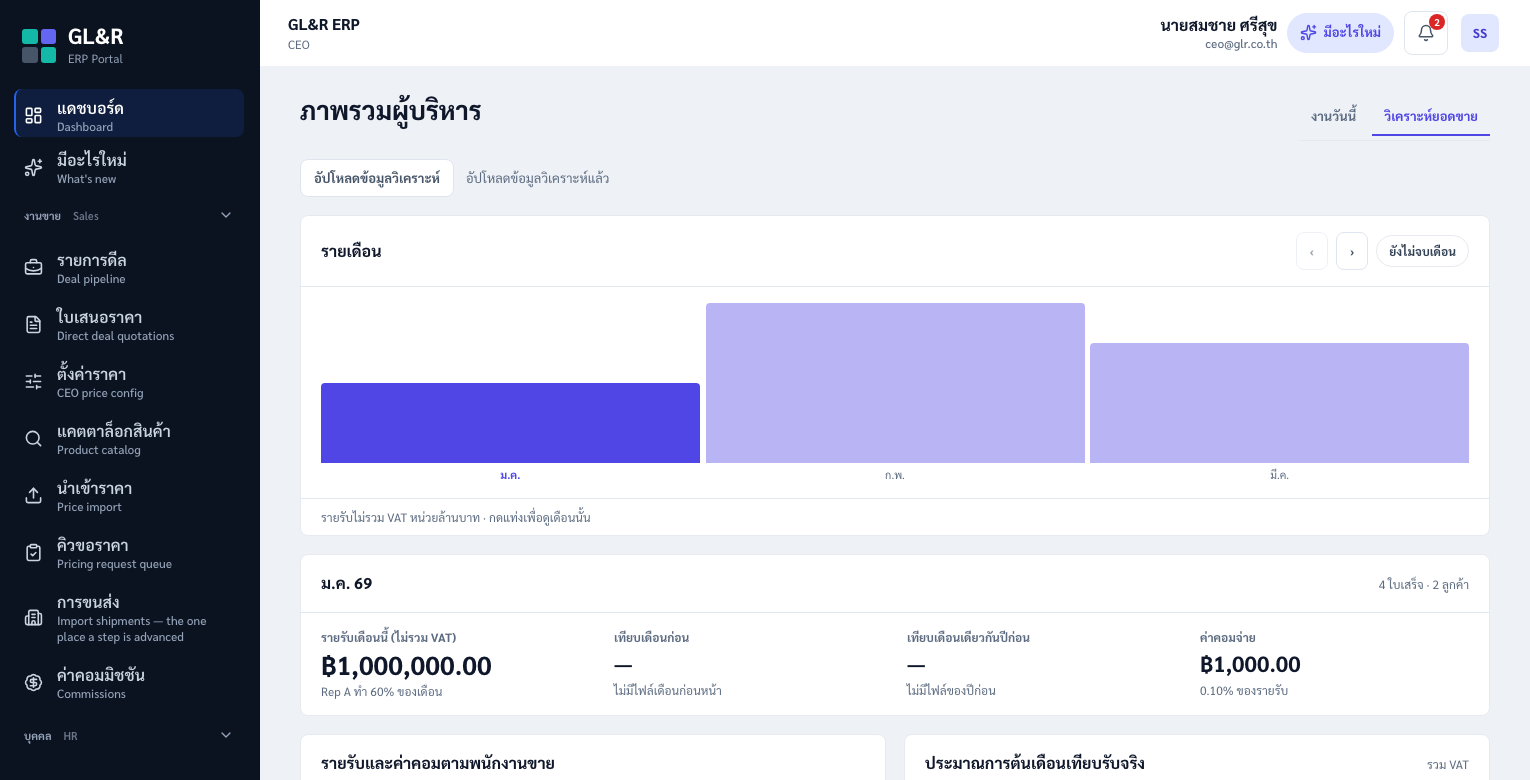
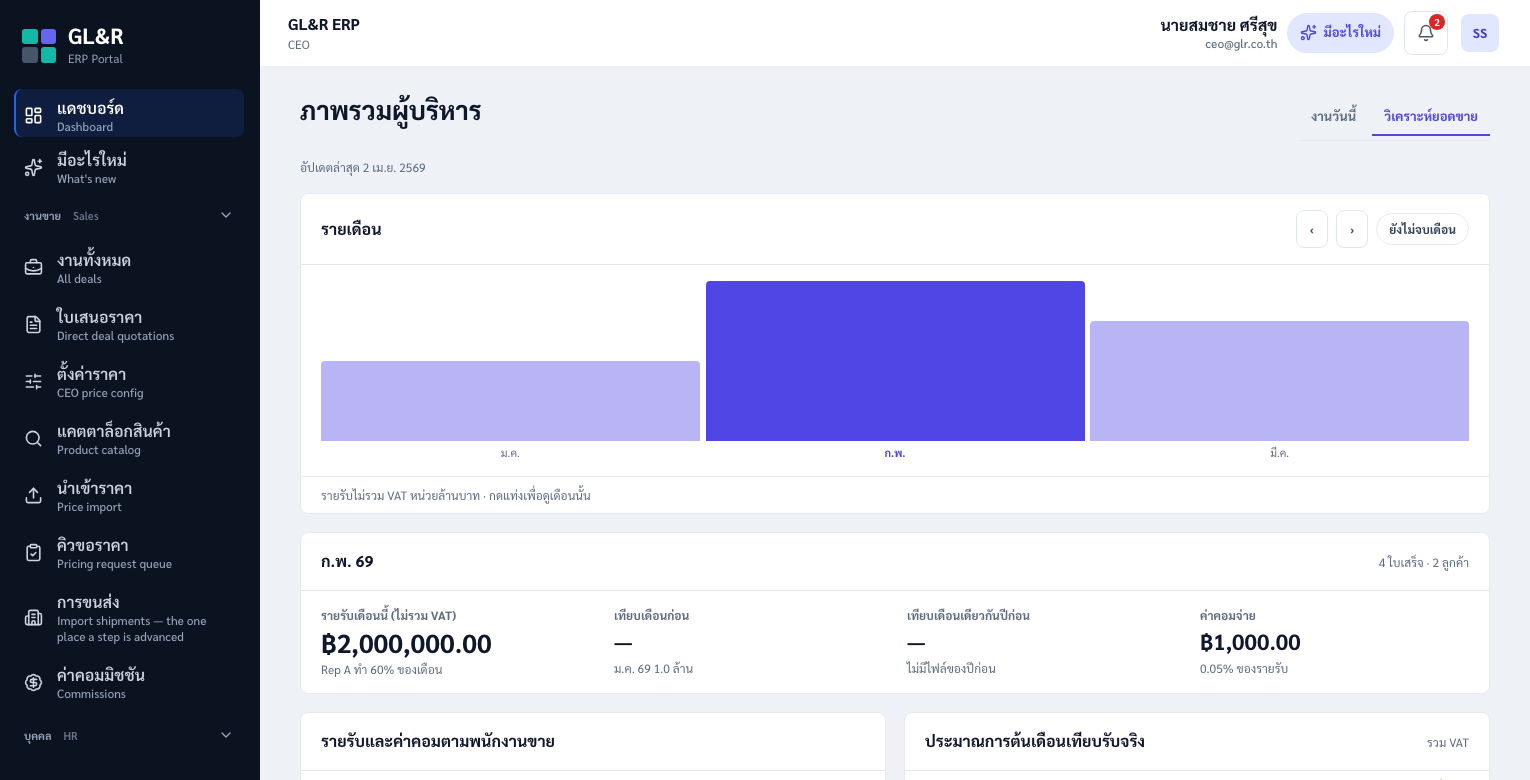
fix(dashboard): address review findings on the sales insights upload removal
- drop the dead upload client and mock writer; list PUT snapshot as server-only
- seed the mock with a synthetic snapshot so mock mode can show the view
- show the load error instead of a blank panel when a refetch fails
- refetch the snapshot on window focus once it is 10 minutes old
- always show the last-updated date; month fallback copy follows the data
- retake the release-notice screenshot without the upload button

diff --git a/frontend/src/features/dashboard/SalesInsights.test.jsx b/frontend/src/features/dashboard/SalesInsights.test.jsx
@@ -1,11 +1,13 @@
 import React from 'react';
-import { QueryClient, QueryClientProvider } from '@tanstack/react-query';
+import { QueryClient, QueryClientProvider, focusManager } from '@tanstack/react-query';
 import { MemoryRouter } from 'react-router-dom';
 import { cleanup, fireEvent, render, screen, waitFor, within } from '@testing-library/react';
-import { beforeEach, describe, expect, it, vi } from 'vitest';
+import { act } from 'react';
+import { afterEach, beforeEach, describe, expect, it, vi } from 'vitest';
 import { SalesInsights } from './SalesInsights.jsx';
 import { api } from '../../api/index.js';
 import { ml, pct } from './insight/insightFormat.js';
+import { formatThaiDate } from '../../utils/format.js';
 import { SNAPSHOT, SNAPSHOT_MINIMAL, SNAPSHOT_SPARSE, SNAPSHOT_WITH_NOW } from '../../test/fixtures/salesAnalyticsSnapshot.js';
 
 globalThis.React = React;
@@ -18,8 +20,9 @@ vi.mock('../../api/index.js', () => ({
 const CEO_ORDER = ['sales', 'comm', 'cust', 'pipe', 'des'];
 const MANAGER_ORDER = ['pipe', 'des', 'sales', 'cust', 'comm'];
 
-function renderInsights(role) {
-  const queryClient = new QueryClient({ defaultOptions: { queries: { retry: false }, mutations: { retry: false } } });
+// `queries` overrides the test client's defaults (the app's own defaults are no focus refetch and a 30 s staleTime).
+function renderInsights(role, queries = {}) {
+  const queryClient = new QueryClient({ defaultOptions: { queries: { retry: false, ...queries }, mutations: { retry: false } } });
   return {
     queryClient,
     ...render(
@@ -35,6 +38,11 @@ function renderInsights(role) {
 const withSnapshot = (payload = SNAPSHOT) => api.salesAnalytics.snapshot.mockResolvedValue({
   snapshot: { payload, asOf: '2026-03-31', uploadedAt: '2026-04-02T03:00:00Z' },
 });
+const expectNoUploadControl = () => {
+  const root = screen.getByTestId('sales-insights');
+  expect(root.querySelector('input[type="file"]')).toBeNull();
+  expect(within(root).queryByRole('button', { name: /อัปโหลด|upload/i })).toBeNull();
+};
 const detail = () => screen.getByTestId('insight-month-detail');
 const sectionOrder = () => [...document.querySelectorAll('[data-testid^="insight-section-"]')]
   .map((el) => el.getAttribute('data-testid').replace('insight-section-', ''));
@@ -133,14 +141,20 @@ describe('SalesInsights', () => {
     it('offers no upload control to anyone, the CEO included: the data arrives through the weekly update', async () => {
       const { unmount } = renderInsights('ceo');
       const ceoEmpty = await screen.findByTestId('insight-empty');
-      expect(document.querySelector('input[type="file"]')).toBeNull();
-      expect(screen.queryByText(/อัปโหลด/)).toBeNull();
       expect(ceoEmpty.textContent).toBe('ยังไม่มีข้อมูลวิเคราะห์ — ข้อมูลอัปเดตทุกสัปดาห์');
+      expectNoUploadControl();
       unmount();
 
       renderInsights('sales_manager');
       expect((await screen.findByTestId('insight-empty')).textContent).toBe(ceoEmpty.textContent);
-      expect(document.querySelector('input[type="file"]')).toBeNull();
+      expectNoUploadControl();
+    });
+
+    it('offers the CEO no upload control next to a usable snapshot either', async () => {
+      withSnapshot();
+      renderInsights('ceo');
+      await screen.findByTestId('insight-month-detail');
+      expectNoUploadControl();
     });
   });
 
@@ -302,7 +316,7 @@ describe('SalesInsights', () => {
       expect((await screen.findByRole('alert')).textContent).toContain('แสดงหัวข้อนี้ไม่ได้');
 
       api.salesAnalytics.snapshot.mockResolvedValue({ snapshot: { payload: SNAPSHOT, asOf: null, uploadedAt: '2026-04-03T03:00:00Z' } });
-      await queryClient.invalidateQueries();
+      await act(async () => { await queryClient.invalidateQueries(); });
       await waitFor(() => expect(screen.queryByRole('alert')).toBeNull());
       expect(screen.getByTestId('insight-month-detail')).toBeTruthy();
       spy.mockRestore();
@@ -395,7 +409,7 @@ describe('SalesInsights', () => {
 
       fireEvent.click(screen.getByTestId('insight-month-0'));
       expect(within(detail()).getByText('ลูกค้า ก')).toBeTruthy();
-      expect(screen.queryByText('แสดงเดือนนี้ไม่ได้ กรุณาอัปโหลดไฟล์ใหม่หรือแจ้งผู้ดูแลระบบ')).toBeNull();
+      expect(screen.queryByRole('alert')).toBeNull();
       spy.mockRestore();
     });
 
@@ -412,7 +426,7 @@ describe('SalesInsights', () => {
     it('shows the ข้อมูล ณ date to the sales manager too, like the CEO, with no upload control', async () => {
       renderInsights('sales_manager');
       await screen.findByTestId('insight-month-detail');
-      expect(screen.getByText('ข้อมูล ณ 2026-03-31')).toBeTruthy();
+      expect(screen.getByTestId('insight-updated').textContent).toContain('ข้อมูล ณ 2026-03-31');
       expect(document.querySelector('input[type="file"]')).toBeNull();
     });
 
@@ -509,6 +523,73 @@ describe('SalesInsights', () => {
       const cell = (row) => row.querySelectorAll('td')[4].textContent;
       expect(cell(rows[1])).toBe('0%');
       expect(cell(rows[2])).toBe('—');
+    });
+  });
+  describe('review round 4', () => {
+    afterEach(() => { vi.useRealTimers(); focusManager.setFocused(undefined); });
+
+    it('shows the load-error alert when a refetch fails over a stored snapshot the page cannot draw', async () => {
+      withSnapshot({ ...SNAPSHOT_MINIMAL, months: [], monthly_total: [], monthly: [] });
+      const { queryClient } = renderInsights('ceo');
+      await screen.findByTestId('insight-empty');
+
+      api.salesAnalytics.snapshot.mockRejectedValue(new Error('down'));
+      await act(async () => { await queryClient.invalidateQueries(); });
+
+      expect((await screen.findByRole('alert')).textContent).toBe('โหลดข้อมูลวิเคราะห์ไม่สำเร็จ');
+    });
+
+    it('an open tab picks up a newer snapshot when the window regains focus after 10 minutes, and not before', async () => {
+      vi.useFakeTimers({ toFake: ['Date'] });
+      renderInsights('ceo', { refetchOnWindowFocus: false, staleTime: 30_000 });
+      await screen.findByTestId('insight-month-detail');
+      expect(api.salesAnalytics.snapshot).toHaveBeenCalledTimes(1);
+
+      await act(async () => { focusManager.setFocused(false); focusManager.setFocused(true); });
+      expect(api.salesAnalytics.snapshot).toHaveBeenCalledTimes(1);
+
+      vi.setSystemTime(Date.now() + 11 * 60_000);
+      await act(async () => { focusManager.setFocused(false); focusManager.setFocused(true); });
+      await waitFor(() => expect(api.salesAnalytics.snapshot).toHaveBeenCalledTimes(2));
+    });
+
+    it('the month fallback only says to pick another month when another choice exists', async () => {
+      const spy = vi.spyOn(console, 'error').mockImplementation(() => {});
+      const bad = { ...SNAPSHOT.monthly[2], fc: [null] };
+      const single = { ...SNAPSHOT, months: ['มี.ค. 69'], monthly_total: [1500000], monthly: [bad] };
+      withSnapshot(single);
+      const { unmount } = renderInsights('ceo');
+      expect((await screen.findByRole('alert')).textContent).toBe('แสดงเดือนนี้ไม่ได้');
+      unmount();
+
+      withSnapshot({ ...single, now: SNAPSHOT_WITH_NOW.now });
+      renderInsights('ceo');
+      expect((await screen.findByRole('alert')).textContent).toBe('แสดงเดือนนี้ไม่ได้ เลือกเดือนอื่น');
+      spy.mockRestore();
+    });
+
+    describe('the "when was this loaded" line', () => {
+      const line = () => screen.getByTestId('insight-updated').textContent;
+      const updated = `อัปเดตล่าสุด ${formatThaiDate('2026-04-02T03:00:00Z')}`;
+
+      it('shows the as-of date and the update date together', async () => {
+        renderInsights('ceo');
+        await screen.findByTestId('insight-month-detail');
+        expect(line()).toBe(`ข้อมูล ณ 2026-03-31 · ${updated}`);
+      });
+
+      it('still shows the update date when the snapshot has no as-of date, and nothing when it has neither', async () => {
+        api.salesAnalytics.snapshot.mockResolvedValue({ snapshot: { payload: SNAPSHOT, asOf: null, uploadedAt: '2026-04-02T03:00:00Z' } });
+        const { unmount } = renderInsights('ceo');
+        await screen.findByTestId('insight-month-detail');
+        expect(line()).toBe(updated);
+        unmount();
+
+        api.salesAnalytics.snapshot.mockResolvedValue({ snapshot: { payload: SNAPSHOT, asOf: null, uploadedAt: null } });
+        renderInsights('ceo');
+        await screen.findByTestId('insight-month-detail');
+        expect(screen.queryByTestId('insight-updated')).toBeNull();
+      });
     });
   });
 });

diff --git a/frontend/src/features/dashboard/SalesInsights.jsx b/frontend/src/features/dashboard/SalesInsights.jsx
@@ -4,13 +4,18 @@ import { api } from '../../api/index.js';
 import { queryKeys } from '../../api/queryKeys.js';
 import { ErrorBoundary } from '../../components/common/ErrorBoundary.jsx';
 import { Skeleton } from '../../components/common/Skeleton.jsx';
+import { formatThaiDate } from '../../utils/format.js';
 import { MonthDetail, MonthPicker, NowDetail } from './insight/insightMonth.jsx';
 import { isUsable } from './insight/insightFormat.js';
 import { YearPart } from './insight/insightYear.jsx';
 
 /** The "วิเคราะห์ยอดขาย" view of the CEO / sales-manager landing page: a stored analytics snapshot. */
 export function SalesInsights({ user }) {
-  const query = useQuery({ queryKey: queryKeys.salesAnalyticsSnapshot(), queryFn: () => api.salesAnalytics.snapshot() });
+  const query = useQuery({ queryKey: queryKeys.salesAnalyticsSnapshot(), queryFn: () => api.salesAnalytics.snapshot(),
+    // An open tab should pick up the weekly refresh: the app default is no focus refetch.
+    refetchOnWindowFocus: true,
+    staleTime: 10 * 60_000,
+  });
   const stored = query.data?.snapshot?.payload ?? null;
   const asOf = query.data?.snapshot?.asOf;
   const uploadedAt = query.data?.snapshot?.uploadedAt;
@@ -24,9 +29,13 @@ export function SalesInsights({ user }) {
 
   return (
     <div className="grid gap-[18px]" data-testid="sales-insights">
-      {asOf ? <small className="text-xs text-text-muted">ข้อมูล ณ {asOf}</small> : null}
+      {asOf || uploadedAt ? (
+        <small className="text-xs text-text-muted" data-testid="insight-updated">
+          {[asOf ? `ข้อมูล ณ ${asOf}` : null, uploadedAt ? `อัปเดตล่าสุด ${formatThaiDate(uploadedAt)}` : null].filter(Boolean).join(' · ')}
+        </small>
+      ) : null}
       {query.isLoading ? <Skeleton height={160} /> : null}
-      {query.isError && !query.data ? <p role="alert" className="m-0 text-sm text-danger">โหลดข้อมูลวิเคราะห์ไม่สำเร็จ</p> : null}
+      {query.isError && !K ? <p role="alert" className="m-0 text-sm text-danger">โหลดข้อมูลวิเคราะห์ไม่สำเร็จ</p> : null}
       {!query.isLoading && !query.isError && !K ? (
         <section data-testid="insight-empty" className="rounded-md border border-border bg-surface p-5 text-sm text-text-muted">
           {stored ? 'ข้อมูลวิเคราะห์ที่มีอยู่อ่านไม่ได้' : 'ยังไม่มีข้อมูลวิเคราะห์'} — ข้อมูลอัปเดตทุกสัปดาห์
@@ -37,7 +46,7 @@ export function SalesInsights({ user }) {
         <Fragment key={uploadedAt}>
           <MonthPicker K={K} sel={sel} onSelect={setPicked} />
           {/* Keyed on the selection too: picking another month remounts the detail, so a malformed month can be left. */}
-          <ErrorBoundary key={sel} fallback={() => <p role="alert" className="m-0 text-sm text-danger">แสดงเดือนนี้ไม่ได้ เลือกเดือนอื่น</p>}>
+          <ErrorBoundary key={sel} fallback={() => <p role="alert" className="m-0 text-sm text-danger">แสดงเดือนนี้ไม่ได้{K.months.length > 1 || K.now ? ' เลือกเดือนอื่น' : ''}</p>}>
             {sel === 'now' ? <NowDetail now={K.now} /> : <MonthDetail K={K} sel={sel} />}
           </ErrorBoundary>
           <YearPart K={K} role={user?.role} section={section} onSection={setSection} />

diff --git a/frontend/src/api/mockApi.salesAnalytics.test.js b/frontend/src/api/mockApi.salesAnalytics.test.js
@@ -1,20 +1,28 @@
 import { describe, it, expect } from 'vitest';
 import { api } from './mockApi.js';
+import { isUsable } from '../features/dashboard/insight/insightFormat.js';
 
-// Mirrors SalesAnalyticsService#upload: asOf is the document's `as_of` string, else null (the real
-// authz/validation is proven only by SalesAnalyticsSnapshotIntegrationTest).
-const doc = (extra = {}) => ({ months: ['ม.ค. 69'], monthly_total: [1], monthly: [{ total: 1, reps: [] }], reps: [], ...extra });
+// Role gates mirror SalesAnalyticsService but are NOT evidence (SalesAnalyticsSnapshotIntegrationTest is). The data
+// arrives through an outside weekly job, so the mock has no upload: it starts with a synthetic snapshot instead.
+describe('mockApi.salesAnalytics', () => {
+  it('starts with a usable synthetic snapshot for the CEO and the sales manager', async () => {
+    for (const role of ['ceo', 'sales_manager']) {
+      await api.auth.login({ role });
+      const { snapshot } = await api.salesAnalytics.snapshot();
+      expect(isUsable(snapshot?.payload)).toBe(true);
+      expect(snapshot.asOf).toBe(snapshot.payload.as_of ?? null);
+      expect(Number.isNaN(Date.parse(snapshot.uploadedAt))).toBe(false);
+    }
+  });
 
-describe('mockApi.salesAnalytics.upload', () => {
-  it('derives asOf from the document\'s as_of string, and null when it is missing or not a string', async () => {
-    await api.auth.login({ role: 'ceo' });
-    await api.salesAnalytics.upload(doc({ as_of: '2026-03-31' }));
-    expect((await api.salesAnalytics.snapshot()).snapshot.asOf).toBe('2026-03-31');
+  it('refuses every other role with 403', async () => {
+    for (const role of ['sales', 'account', 'hr']) {
+      await api.auth.login({ role });
+      await expect(api.salesAnalytics.snapshot()).rejects.toMatchObject({ status: 403 });
+    }
+  });
 
-    await api.salesAnalytics.upload(doc());
-    expect((await api.salesAnalytics.snapshot()).snapshot.asOf).toBeNull();
-
-    await api.salesAnalytics.upload(doc({ as_of: 5 }));
-    expect((await api.salesAnalytics.snapshot()).snapshot.asOf).toBeNull();
+  it('has no upload', () => {
+    expect(api.salesAnalytics.upload).toBeUndefined();
   });
 });

diff --git a/frontend/src/api/mockApi.js b/frontend/src/api/mockApi.js
@@ -82,6 +82,7 @@ import {
   buildDemoEmployeeTaxAllowances, buildDemoDeductionObligations, buildDemoPayrollInputDrafts,
   buildDemoDeductionShortfalls,
 } from '../data/demoPayroll.js';
+import { SNAPSHOT_WITH_NOW } from '../test/fixtures/salesAnalyticsSnapshot.js';
 
 const db = createDemoDatabase();
 
@@ -8250,7 +8251,7 @@ function buildFinanceDeal(raw, user) {
   return deal;
 }
 
-let mockAnalyticsSnapshot = null;
+const mockAnalyticsSnapshot = { payload: SNAPSHOT_WITH_NOW, asOf: SNAPSHOT_WITH_NOW.as_of ?? null, uploadedAt: '2026-04-02T03:00:00Z' };
 
 // ── salesBoard read model (mirrors SalesBoardRepository) ──
 const MOCK_BOARD_LIVE_STATUSES = new Set(['APPROVED', 'ISSUED', 'SENT', 'ACCEPTED']);
@@ -13748,20 +13749,13 @@ ${titles.length} เรื่องที่เกี่ยวกับงาน
     },
   },
 
-  // Mirrors SalesAnalyticsService. Role gates approximate the Java service and are NOT evidence. No real data lives
-  // here: the mock starts with no snapshot, and a CEO upload is kept in memory only.
+  // Mirrors SalesAnalyticsService. Role gates approximate the Java service and are NOT evidence. The real snapshot is
+  // loaded by an outside weekly job, so the mock has no upload and starts with a synthetic snapshot.
   salesAnalytics: {
     async snapshot() {
       const user = requireSession();
       if (!['ceo', 'sales_manager'].includes(user.role)) fail('ไม่มีสิทธิ์เข้าถึงรายการนี้', 403);
       return delay({ snapshot: mockAnalyticsSnapshot });
-    },
-    async upload(document) {
-      const user = requireSession();
-      if (user.role !== 'ceo') fail('ไม่มีสิทธิ์เข้าถึงรายการนี้', 403);
-      if (!document || typeof document !== 'object' || Array.isArray(document)) fail('ข้อมูลวิเคราะห์ต้องเป็น JSON object', 400);
-      mockAnalyticsSnapshot = { payload: document, asOf: typeof document.as_of === 'string' ? document.as_of : null, uploadedAt: new Date().toISOString() };
-      return delay({ ok: true });
     },
   },
 

diff --git a/frontend/src/features/whatsNew/releases/2026-11-16.js b/frontend/src/features/whatsNew/releases/2026-11-16.js
@@ -72,7 +72,7 @@ const entries = [
       ['กดแท่งของเดือนที่ต้องการดู', 'เห็นรายรับ ค่าคอม ประมาณการเทียบรับจริง และลูกค้ารายใหญ่ของเดือนนั้น ใช้ปุ่มลูกศรเลื่อนทีละเดือนได้', 'แท่งรายเดือนและรายละเอียดของเดือนที่เลือก'],
       ['เลื่อนลงไปที่ "ทั้งปี" แล้วกดหัวข้อที่สนใจ', 'ยอดขาย · ค่าคอมมิชชัน · ลูกค้า · งานในมือและประมาณการ · ผู้ออกแบบและการใช้เวลา', 'ข้อค้นพบและปุ่มเลือกหัวข้อของส่วนทั้งปี'],
     ],
-    help: 'ตัวเลขอัปเดตทุกสัปดาห์จากรายงานประจำสัปดาห์ของฝ่ายขาย วันที่ของข้อมูลแสดงอยู่ใต้แท็บ',
+    help: 'ข้อมูลอัปเดตทุกสัปดาห์ เดือนที่ปิดแล้วใช้ยอดจากไฟล์ค่าคอมมิชชัน เดือนล่าสุดอาจเป็นตัวเลขเบื้องต้น วันที่อัปเดตล่าสุดแสดงอยู่ใต้แท็บ',
   }),
   entry({
     id: 'deal-list',

diff --git a/frontend/src/features/dashboard/InsightSwitch.jsx b/frontend/src/features/dashboard/InsightSwitch.jsx
@@ -23,14 +23,14 @@ function useInsightView() {
  * the sales-analytics snapshot. The tablist lives in the header; the tabpanel (`panelProps`) wraps only the body below
  * it, so the tablist is never inside the panel it controls.
  */
-export function InsightLanding({ title, user, showToast, renderToday }) {
+export function InsightLanding({ title, user, renderToday }) {
   const [view, setView] = useInsightView();
   const switcher = <Tabs items={ITEMS} value={view} onChange={setView} ariaLabel="มุมมองหน้าแรก" idPrefix="landing-view" onSurface />;
   const panelProps = { role: 'tabpanel', id: `landing-view-panel-${view}`, 'aria-labelledby': `landing-view-tab-${view}` };
   return view === 'insight' ? (
     <PageStack>
       <PageHeader title={title} actions={switcher} />
-      <div {...panelProps}><SalesInsights user={user} showToast={showToast} /></div>
+      <div {...panelProps}><SalesInsights user={user} /></div>
     </PageStack>
   ) : renderToday(switcher, panelProps);
 }

diff --git a/frontend/src/api/serverContract.test.js b/frontend/src/api/serverContract.test.js
@@ -179,6 +179,10 @@ const UI_REACHABLE_KEYS = new Set(
 // Whether to surface or retire any of them is a product decision, not something a test decides.
 const SERVER_ONLY = {
   // ── Live, via a client this harness cannot see ────────────────────────────
+  'PUT /api/sales-analytics/snapshot':
+    "Sent by the weekly sales-insights refresh job from the CEO's signed-in page, so the requester is an outside "
+    + 'script this harness cannot see. No screen and no hrApi method calls it since the upload button was removed. '
+    + 'CEO-only on the server (SalesAnalyticsService).',
   'GET /api/public/brand/logo.png':
     'Fetched by the MAIL CLIENT, not by this app — it is the <img> src in the notification email '
     + 'templates, so the requester is Gmail/Outlook rendering a message, with no session and no hrApi '

diff --git a/frontend/src/api/hrApi.js b/frontend/src/api/hrApi.js
@@ -632,10 +632,9 @@ export const api = {
     unitBases: () => apiRequest(API_ROUTES.meta.unitBases),
   },
   // Mirrors SalesAnalyticsController (salesanalytics/). snapshot: {snapshot: {payload, asOf, uploadedAt} | null}.
-  // upload sends the parsed JSON document; ceo only (the service's gate).
+  // Read-only here: the weekly refresh job PUTs the document from the CEO's signed-in page, not this client.
   salesAnalytics: {
     snapshot: () => apiRequest(API_ROUTES.salesAnalytics.snapshot),
-    upload: (document) => apiRequest(API_ROUTES.salesAnalytics.snapshot, { method: 'PUT', body: document }),
   },
   // Mirrors SalesBoardController (salesboard/). myWork: the caller's own ACTIVE deals (followUp + board), sales /
   // sales_manager / ceo. teamOverview: per-rep rows + the team's quiet deals, sales_manager / ceo only.

diff --git a/frontend/src/api/queryKeys.js b/frontend/src/api/queryKeys.js
@@ -124,7 +124,7 @@ export const queryKeys = {
   // The quiet threshold the deal list's ภาพรวมทีม badge names. Deliberately OUTSIDE 'tickets': it is near-static, so a
   // ['tickets'] invalidation (an activity, a stage move) must not refetch the whole team overview just to re-read it.
   salesBoardQuietDays: () => ['salesBoard', 'quietDays'],
-  // The monthly sales-analytics snapshot. Outside 'tickets': no deal write changes it.
+  // The weekly sales-analytics snapshot. Outside 'tickets': no deal write changes it.
   salesAnalyticsSnapshot: () => ['salesAnalytics', 'snapshot'],
   // Same reasoning, for UnitBasis's four codes. See features/pricingRequests/unitBasisCatalog.js.
   unitBasisCatalog: () => ['meta', 'unit-bases'],

diff --git a/frontend/src/features/dashboard/ManagerOverview.jsx b/frontend/src/features/dashboard/ManagerOverview.jsx
@@ -73,7 +73,7 @@ const MANAGER_TITLE = 'ภาพรวมทีมขาย';
 /** Landing page: today's team overview, or (?view=insight) the sales-analytics snapshot. */
 export function ManagerOverview(props) {
   return (
-    <InsightLanding title={MANAGER_TITLE} user={props.user} showToast={props.showToast} renderToday={(switcher, panelProps) => <ManagerToday {...props} switcher={switcher} panelProps={panelProps} />} />
+    <InsightLanding title={MANAGER_TITLE} user={props.user} renderToday={(switcher, panelProps) => <ManagerToday {...props} switcher={switcher} panelProps={panelProps} />} />
   );
 }
 

diff --git a/frontend/src/features/dashboard/CeoOverview.jsx b/frontend/src/features/dashboard/CeoOverview.jsx
@@ -68,7 +68,7 @@ const CEO_TITLE = 'ภาพรวมผู้บริหาร';
 /** Landing page: today's worklist, or (?view=insight) the sales-analytics snapshot. */
 export function CeoOverview(props) {
   return (
-    <InsightLanding title={CEO_TITLE} user={props.user} showToast={props.showToast} renderToday={(switcher, panelProps) => <CeoToday {...props} switcher={switcher} panelProps={panelProps} />} />
+    <InsightLanding title={CEO_TITLE} user={props.user} renderToday={(switcher, panelProps) => <CeoToday {...props} switcher={switcher} panelProps={panelProps} />} />
   );
 }
 
